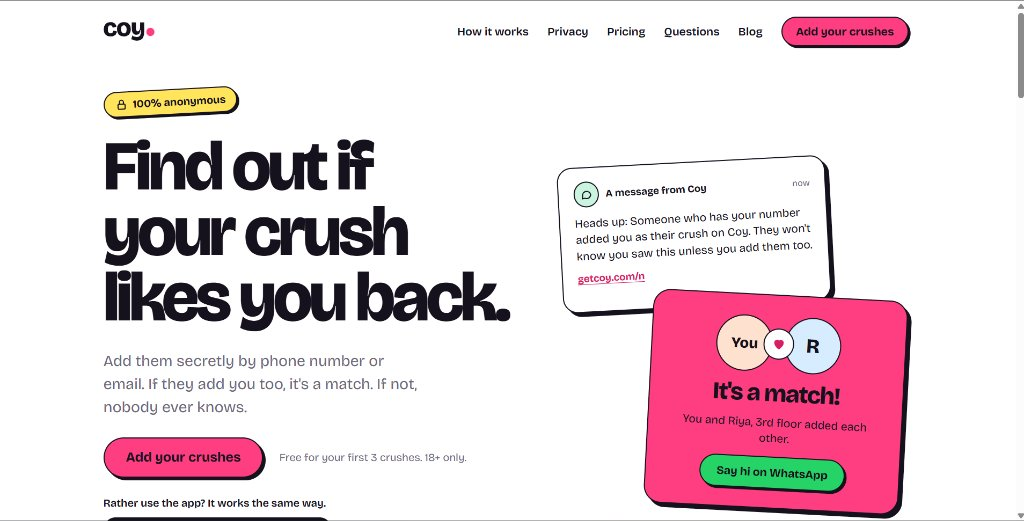
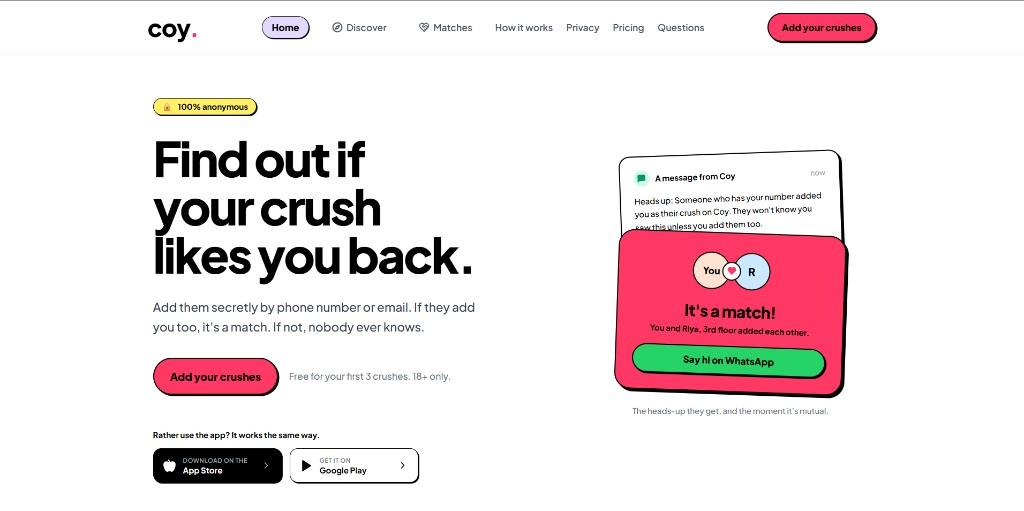
Update Brand Reference screenshot with Home/Discover upper navigation bar

diff --git a/README.md b/README.md
@@ -41,10 +41,10 @@ When all discoverable profiles have been swiped on, a clear, friendly empty stat
 
 ---
 
-### 6. Official Coy Brand Identity Reference
-The Coy visual direction verified from the live site: the grotesque lowercase `coy.` wordmark with berry dot, "100% anonymous" guarantee pill, and neo-brutalist pop cards.
+### 6. Official Coy Brand Identity & Top Navigation Reference
+The Coy visual direction verified from the live site: the grotesque lowercase `coy.` wordmark with berry dot, upper navigation bar featuring **Home**, **Discover**, and **Matches** tabs, "100% anonymous" guarantee pill, and neo-brutalist pop cards.
 
-![Coy Brand Identity](docs/screenshots/coy-hero-match-modal.jpg)
+![Coy Brand Identity & Navigation Bar](docs/screenshots/coy-home-with-discover-tab.png)
 
 ---
 
